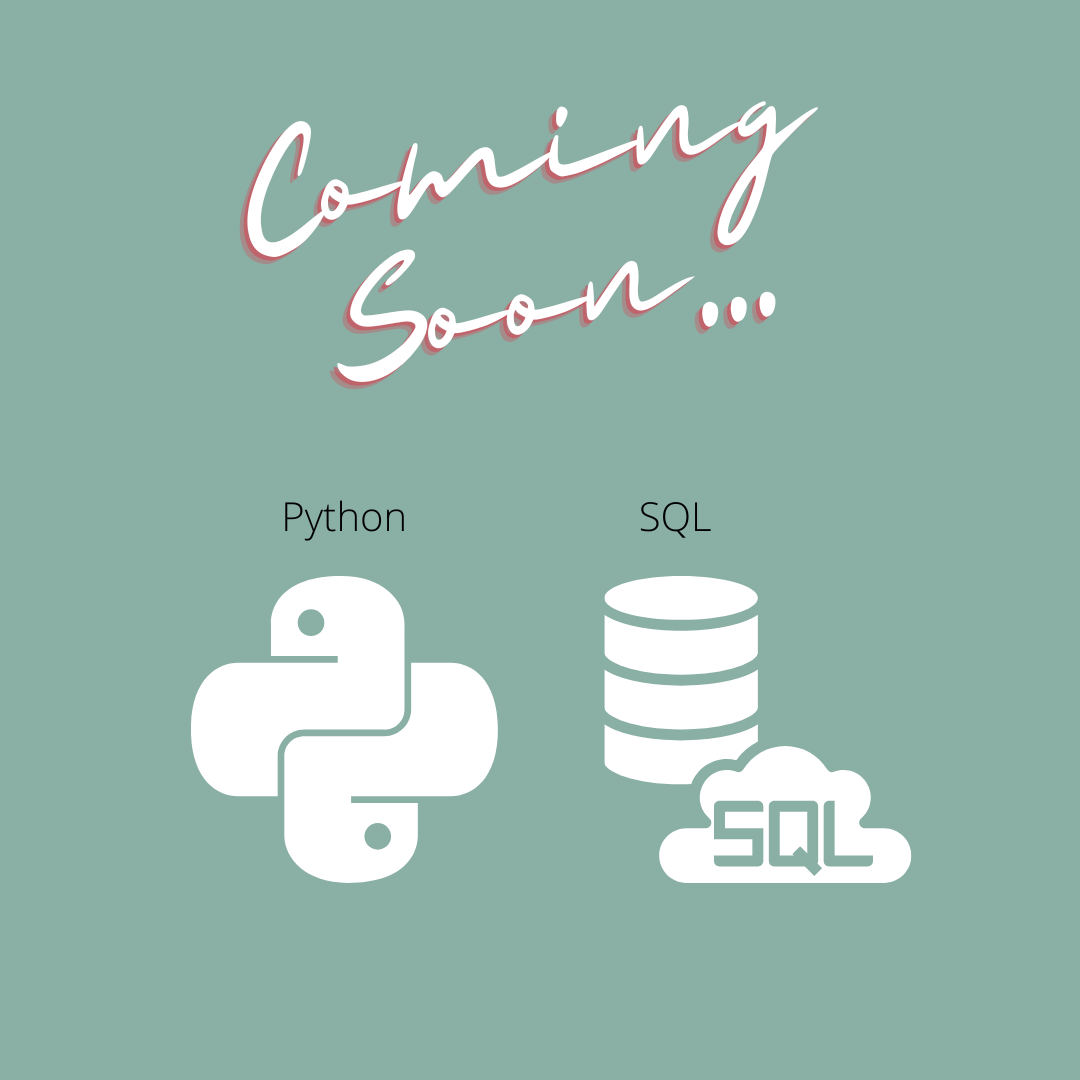
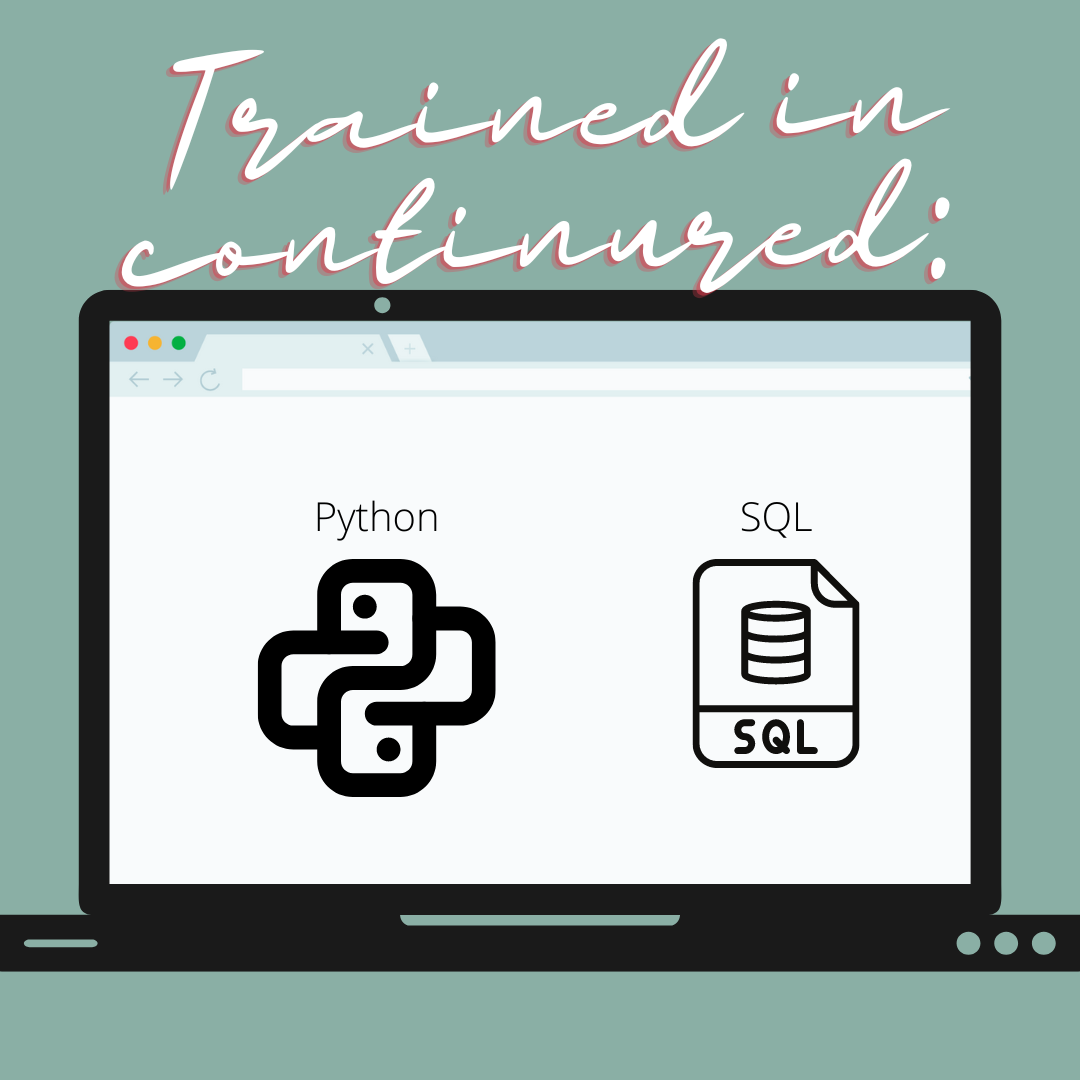
Submitting update portfolio

diff --git a/Formspree_Assingment/index.html b/Formspree_Assingment/index.html
@@ -62,12 +62,12 @@
                 <!--slide 2-->
                 <div class="mySlides fade">
                     <img class="Slideshow_Images" src="./images/2.png" alt="What Meghan is trained in!">
-                    <div class="text">I am a full stack junior developer<br>trained in: CSS, JS, and HTML.</div>
+                    <div class="text">I am a full stack junior developer<br>trained in: CSS, JS, and HTML...</div>
                 </div>
                 <!--slide 3-->
                 <div class="mySlides fade">
                     <img class="Slideshow_Images" src="./images/3.png" alt="Learning soon page!">
-                    <div class="text">Here is what I will be learning, these skills coming soon. Stay tuned!</div>
+                    <div class="text">More areas I am trained in.</div>
                 </div>
                 <!--slide 4-->
                 <div class="mySlides fade">
@@ -101,13 +101,13 @@
         <div class="Column_1">
             <h1>About</h1>
             <p>
-                I am learning and training to become a junior software developer. I am a cat mom of two, a dog mom of one, and also a plant mom(too many to count)!
+                Hello! I am Meghan, I live in Vancouver, WA with my dog and two cats. I love to explore my and nearby cities, play video games, and care for my pets and many plants. 
                 <br>
-                <br>I will be a graduate of <a href="https://www.learncodinganywhere.com" target="_blank"> The the Tech 
-                    Academy</a>'s Software Developer Boot Camp, and trained and experiences in the following web and 
+                <br>I am a soon graduate of <a href="https://www.learncodinganywhere.com" target="_blank"> The the Tech 
+                    Academy</a>'s Software Developer Boot Camp, and trained and experienced in the following web and 
                     programming languages: HTML, CSS, JavaScript, SQL, Python, and more! Coming soon, Oct. 2022!
                 <br>
-                <br> I will be a full-stack web and software developer and would love to work on future projects with you!
+                <br> I am a full-stack web and software developer and would love to work on future projects with you!
                     <a href="#Contact"> Contact</a> me below!
             </p>
         </div>
